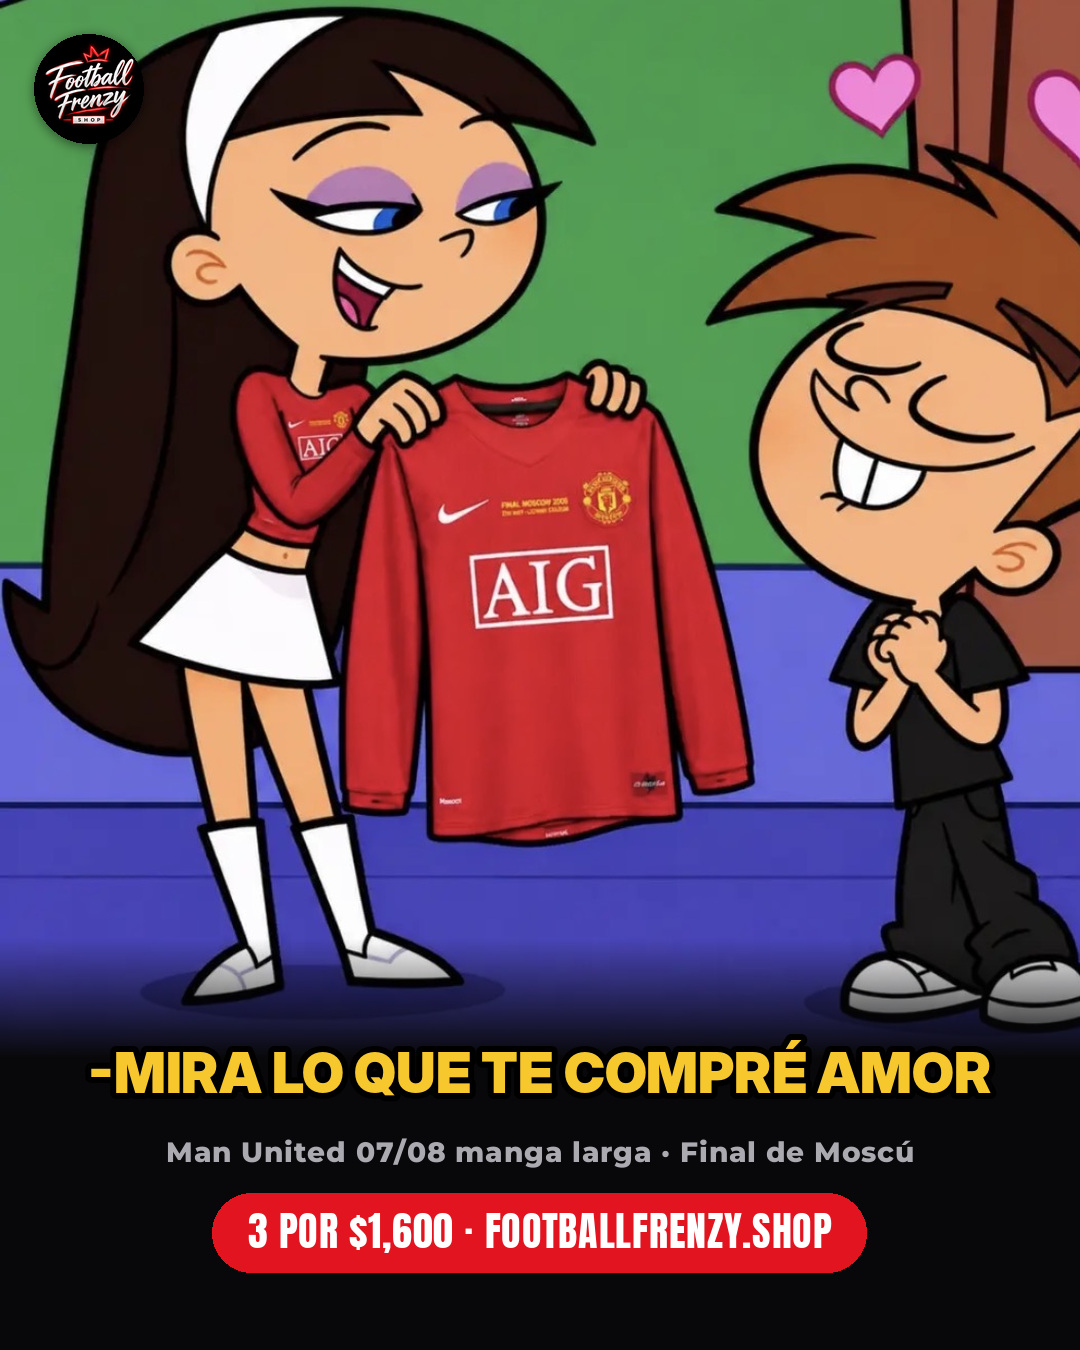
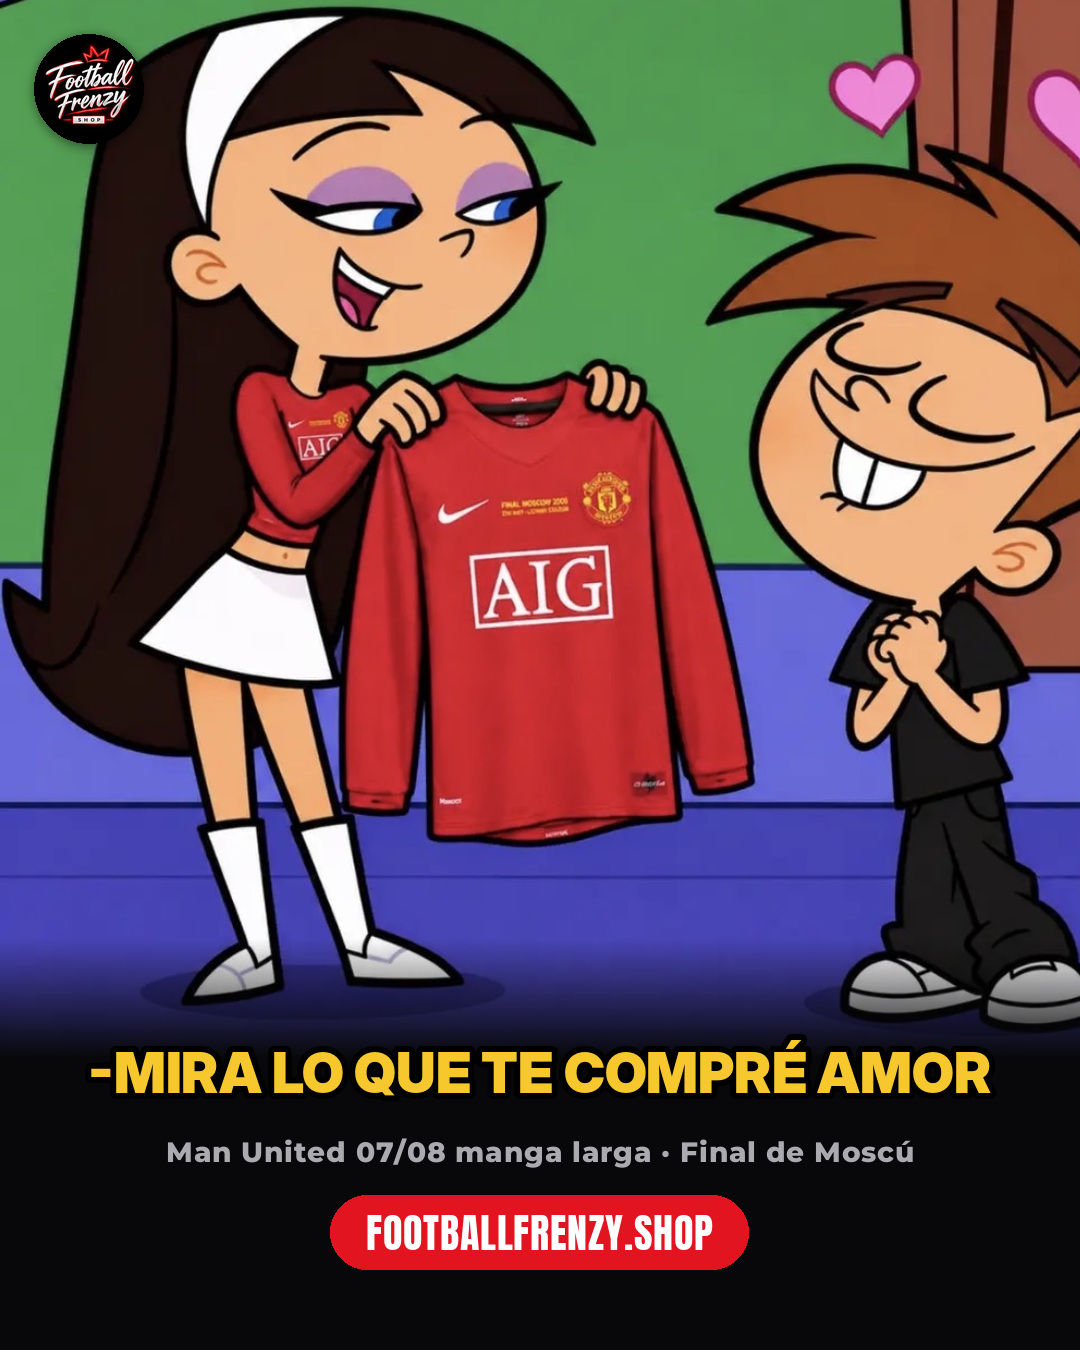
Meme MU 07/08: sin descuento en la imagen
Claude-Session: https://claude.ai/code/session_01Y3XEkftw7SELToetvsGNVM

Changed region(s): [[0.1833, 0.8711, 0.825, 0.9644]]

diff --git a/ads/meme_mu0708.py b/ads/meme_mu0708.py
@@ -33,7 +33,7 @@ def build():
     c.alpha_composite(Image.composite(Image.new("RGBA", (W, 120), (8, 8, 10, 255)), Image.new("RGBA", (W, 120), (0, 0, 0, 0)), fade), (0, top - 120))
     put(c, caption("-MIRA LO QUE TE COMPRÉ AMOR", 56), W / 2, top + 10)
     put(c, text("Man United 07/08 manga larga · Final de Moscú", "MontB.ttf", 28, GREY, 0.03), W / 2, top + 95)
-    put(c, pill("3 POR $1,600 · FOOTBALLFRENZY.SHOP", 40), W / 2, top + 175)
+    put(c, pill("FOOTBALLFRENZY.SHOP", 40), W / 2, top + 175)
     put(c, badge(110), 90, 90)
     return c
 
